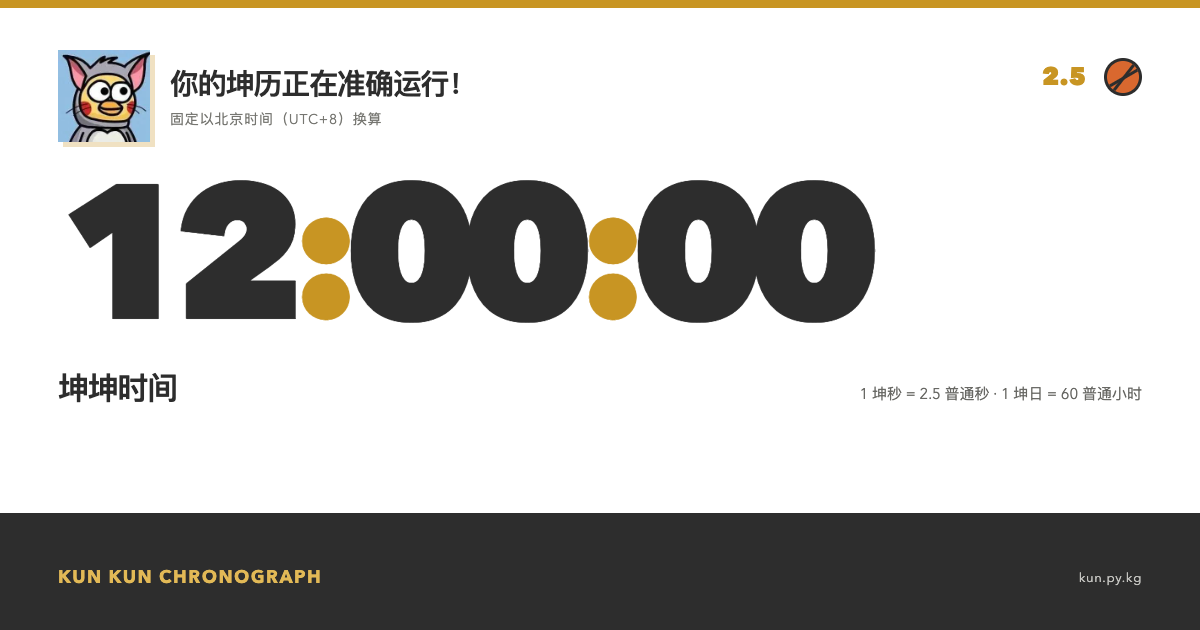
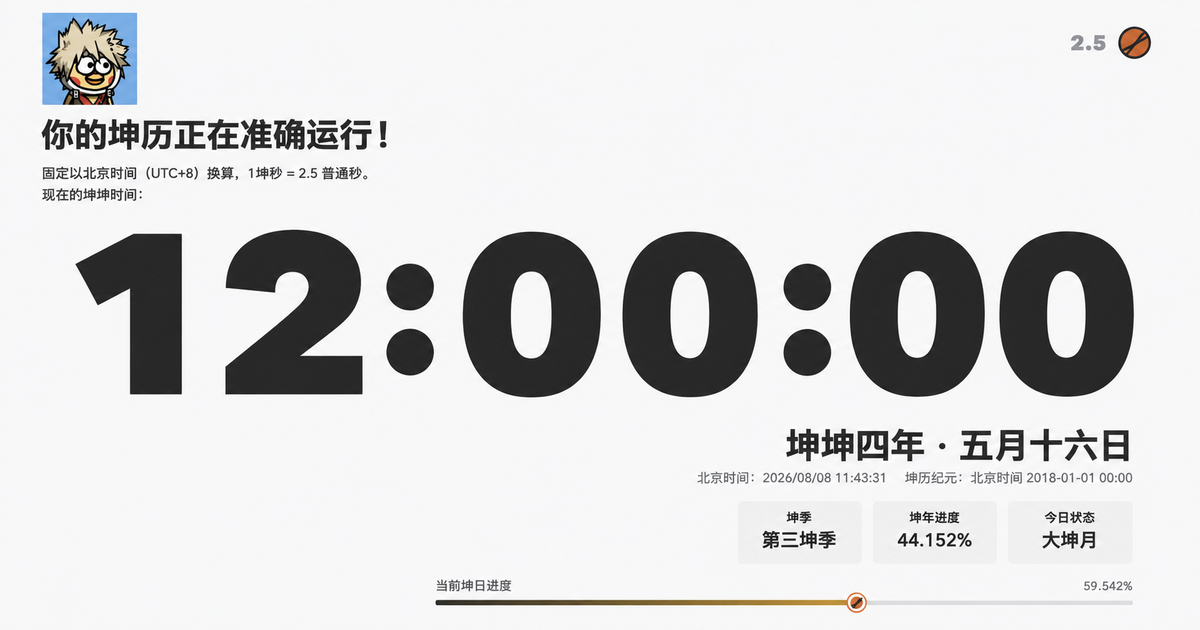
Use supplied OpenGraph preview image

diff --git a/index.html b/index.html
@@ -10,8 +10,8 @@
   <meta property="og:site_name" content="坤坤时钟" />
   <meta property="og:title" content="坤坤 12:00" />
   <meta property="og:description" content="固定以北京时间换算的 2.5 倍速坤历时钟。" />
-  <meta property="og:image" content="https://kun.py.kg/assets/og-kun-1200x630.png" />
-  <meta property="og:image:secure_url" content="https://kun.py.kg/assets/og-kun-1200x630.png" />
+  <meta property="og:image" content="https://kun.py.kg/assets/og-kun-1200x630.png?v=2" />
+  <meta property="og:image:secure_url" content="https://kun.py.kg/assets/og-kun-1200x630.png?v=2" />
   <meta property="og:image:type" content="image/png" />
   <meta property="og:image:width" content="1200" />
   <meta property="og:image:height" content="630" />
@@ -19,7 +19,7 @@
   <meta name="twitter:card" content="summary_large_image" />
   <meta name="twitter:title" content="坤坤 12:00" />
   <meta name="twitter:description" content="固定以北京时间换算的 2.5 倍速坤历时钟。" />
-  <meta name="twitter:image" content="https://kun.py.kg/assets/og-kun-1200x630.png" />
+  <meta name="twitter:image" content="https://kun.py.kg/assets/og-kun-1200x630.png?v=2" />
   <meta name="twitter:image:alt" content="坤坤时钟显示 12:00:00" />
   <link rel="alternate" type="application/json+oembed" href="https://kun.py.kg/oembed.json" title="坤坤 12:00" />
   <title>坤坤 00:00</title>
